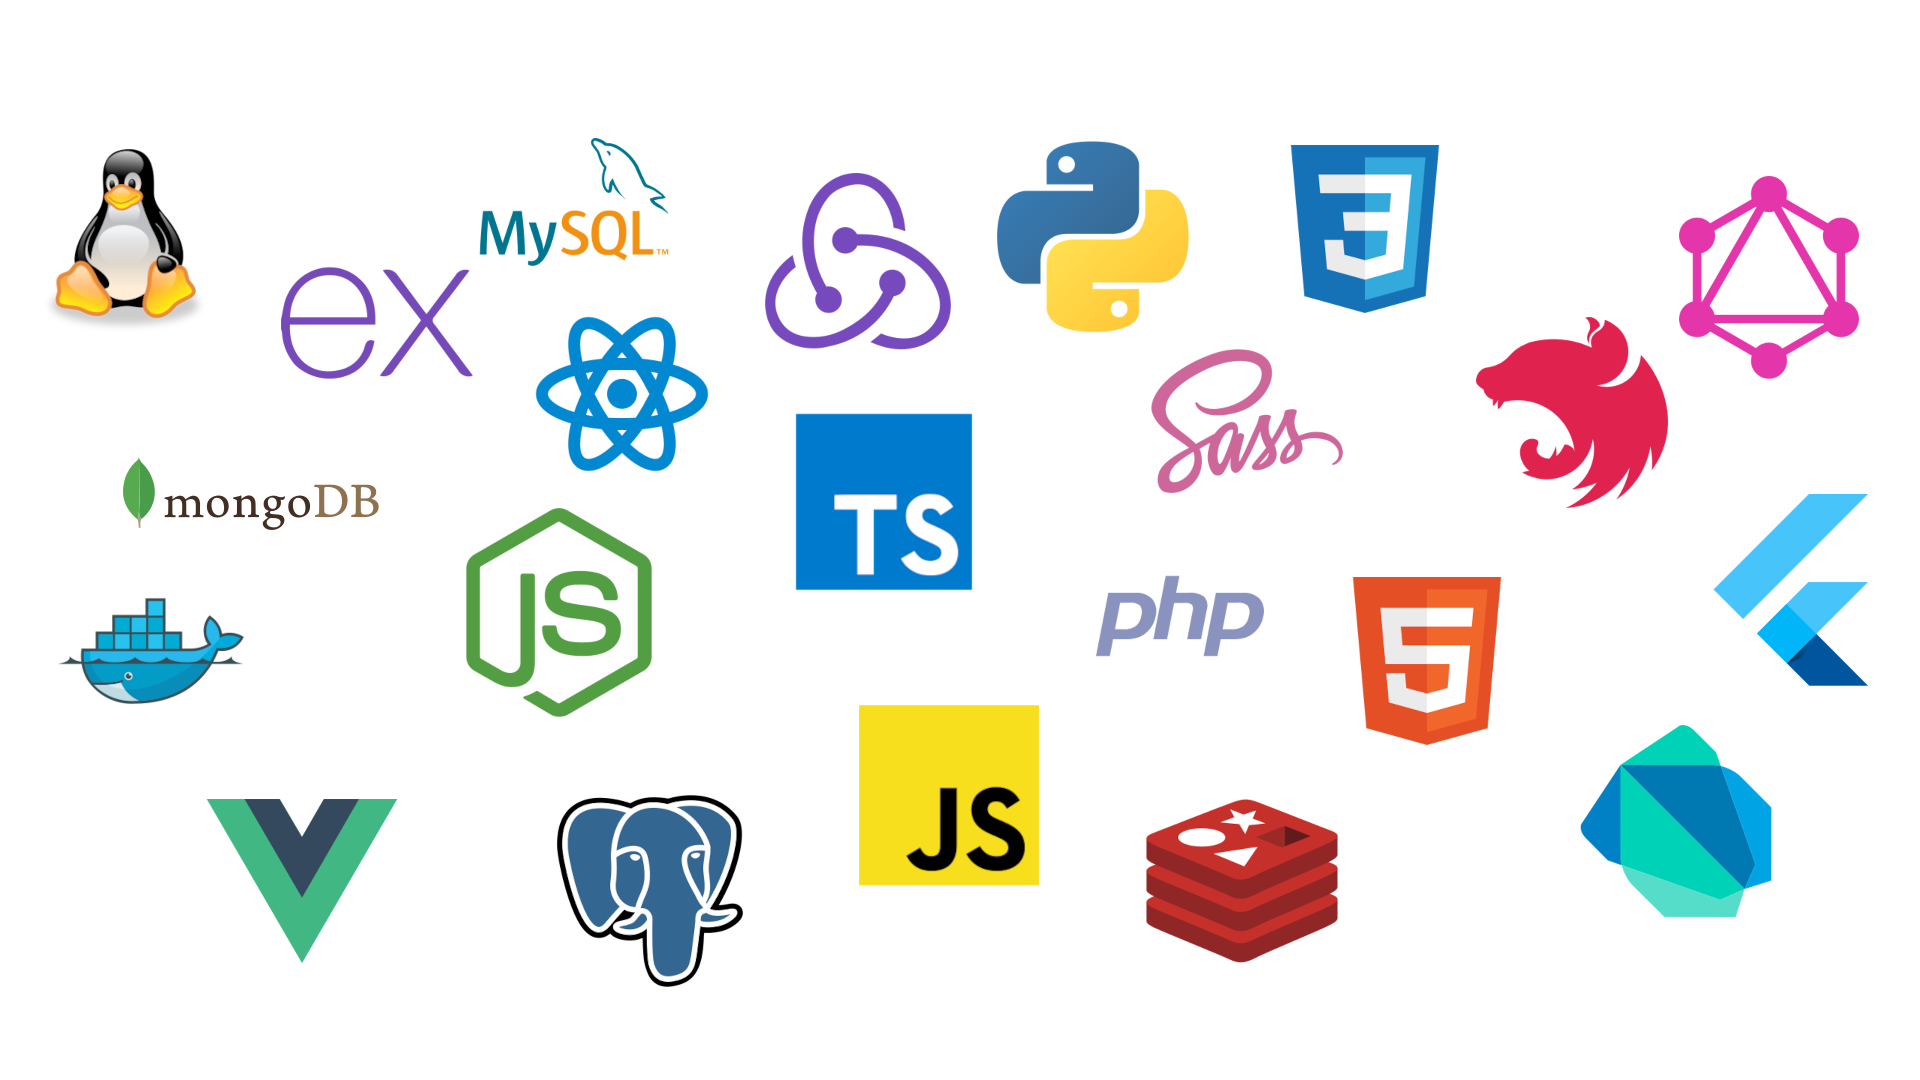
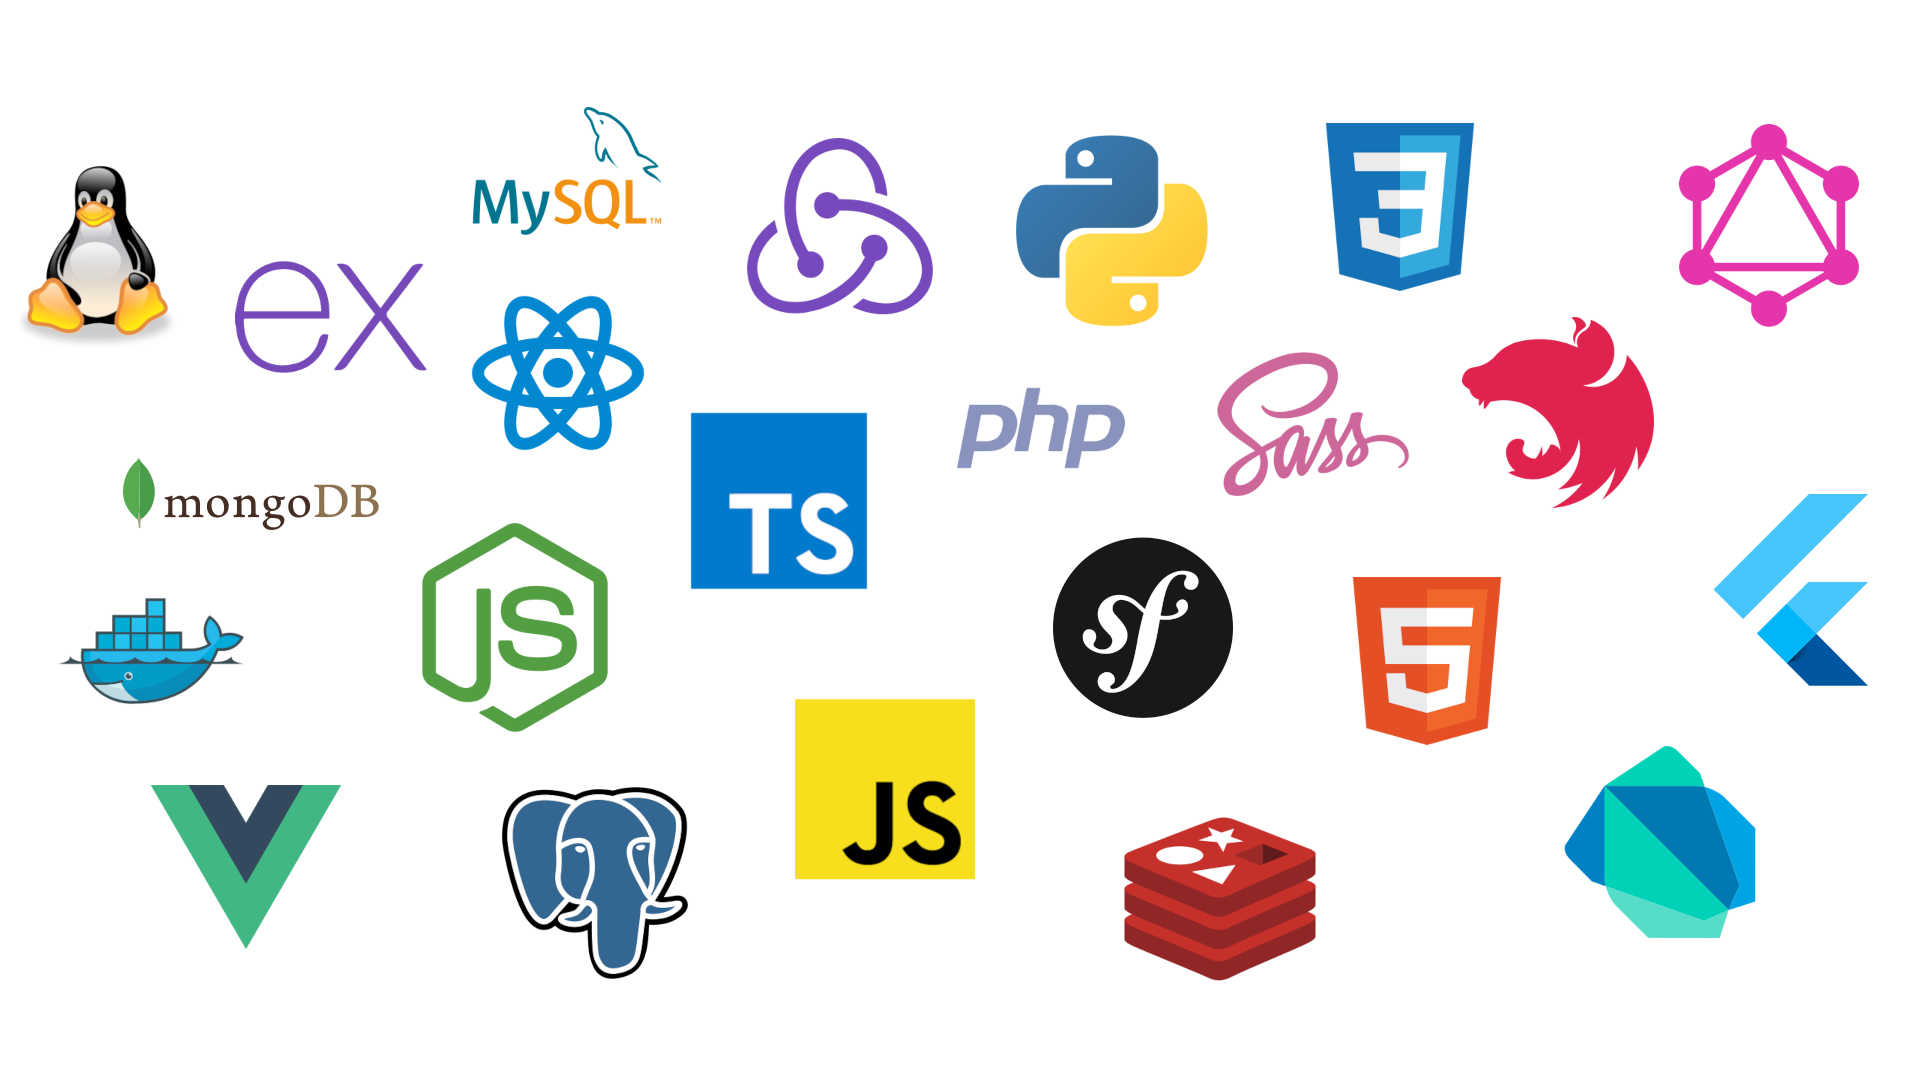
added fixtures to load technologies and projects

diff --git a/server/src/modules/fixtures/data/index.ts b/server/src/modules/fixtures/data/index.ts
@@ -1,0 +1,148 @@
+export const getTechnologies = (imagesPath: string) => [
+  { name: 'C#', icon_url: `${imagesPath}/csharp.svg` },
+  { name: 'CSS', icon_url: `${imagesPath}/css.svg` },
+  { name: 'Dart', icon_url: `${imagesPath}/dart.svg` },
+  { name: 'Docker', icon_url: `${imagesPath}/docker.svg` },
+  { name: 'Express', icon_url: `${imagesPath}/express.svg` },
+  { name: 'Flutter', icon_url: `${imagesPath}/flutter.svg` },
+  { name: 'GraphQL', icon_url: `${imagesPath}/graphql.svg` },
+  { name: 'HTML', icon_url: `${imagesPath}/html.svg` },
+  { name: 'JavaScript', icon_url: `${imagesPath}/javascript.svg` },
+  { name: 'MongoDB', icon_url: `${imagesPath}/mongodb.svg` },
+  { name: 'MySQL', icon_url: `${imagesPath}/mysql.svg` },
+  { name: 'NestJS', icon_url: `${imagesPath}/nestjs.svg` },
+  { name: 'NodeJS', icon_url: `${imagesPath}/nodejs.svg` },
+  { name: 'NPM', icon_url: `${imagesPath}/npm.svg` },
+  { name: 'PHP', icon_url: `${imagesPath}/php.svg` },
+  { name: 'PostgreSQL', icon_url: `${imagesPath}/postgresql.svg` },
+  { name: 'Python', icon_url: `${imagesPath}/python.svg` },
+  { name: 'React TypeScript', icon_url: `${imagesPath}/react_ts.svg` },
+  { name: 'React', icon_url: `${imagesPath}/react.svg` },
+  { name: 'Redis', icon_url: `${imagesPath}/redis.svg` },
+  { name: 'Redux', icon_url: `${imagesPath}/redux.svg` },
+  { name: 'Sass', icon_url: `${imagesPath}/sass.svg` },
+  { name: 'Symfony', icon_url: `${imagesPath}/symfony.svg` },
+  { name: 'Twig', icon_url: `${imagesPath}/twig.svg` },
+  { name: 'TypeScript', icon_url: `${imagesPath}/typescript.svg` },
+  { name: 'Vue', icon_url: `${imagesPath}/vue.svg` },
+  { name: 'Yarn', icon_url: `${imagesPath}/yarn.svg` },
+];
+
+export const getProjects = () => [
+  {
+    name: 'Brownskin Beauty',
+    description: `Site vitrine réalisé pour une cliente
+      créatrice de cosmétiques en tout genre.
+      Je me suis chargé du code, du design et du logo et de la mise en ligne.`,
+    url: 'https://brownskinbeauty.fr',
+    repository: 'https://github.com/ZayenJS/brownskinbeauty',
+    technologies: ['HTML', 'CSS', 'JavaScript'],
+    images: [],
+  },
+  {
+    name: 'Find Your Way',
+    description: `Petit jeu réalisé en javascript dans le cadre de
+      ma formation developpeur web fullstack javascript chez O'Clock.
+      J'y ai ajouté quelques fonctionnalités suplémentaires
+      comme par exemple : pièges, vies, niveaux
+      (mon meilleur score : niveau 46 😉).`,
+    url: 'https://zayenjs.github.io/find-your-way-game/',
+    repository: 'https://github.com/ZayenJS/find-your-way-game',
+    technologies: ['HTML', 'CSS', 'JavaScript'],
+    images: [],
+  },
+  {
+    name: "sensi'me",
+    description: 'Blog crée pour une cliente sans CMS.',
+    url: '',
+    repository: 'https://github.com/ZayenJS/sensime',
+    technologies: [
+      'React',
+      'TypeScript',
+      'Redux',
+      'Sass',
+      'NodeJS',
+      'Express',
+      'PostgreSQL',
+    ],
+    images: [],
+  },
+  {
+    name: 'The Tavern',
+    description: `Site réalisé dans le cadre du projet de fin
+      de formation de la formation developpeur web
+      fullstack JS de l'école O'Clock.
+      Il s'agit du premier réseau social dédié au jeu de rôle.
+      Il est composé de deux parties principales :
+      un fil d'actualité et une salle de jeu avec chat et partage d'écran.`,
+    repository: 'https://github.com/the-tavern-social-network/the-tavern',
+    technologies: ['React', 'Redux', 'Sass', 'NodeJS', 'Express', 'PostgreSQL'],
+    images: [],
+  },
+  {
+    name: 'covid tracker',
+    description: `Application permettant de suivre l'évolution
+      du COVID-19 au fil du temps par pays ou globalement.
+      L'application permet aussi d'obtenir les dernières infos
+      du covid par pays.`,
+    url: '',
+    repository: 'https://github.com/ZayenJS/covid-tracker',
+    technologies: ['React', 'TypeScript', 'Redux', 'Sass'],
+    images: [],
+  },
+  {
+    name: 'cli-rjs',
+    description: `Mon premier package NPM ! Il sert à améliorer la productivité dans un projet react
+      et permet d'arrêter les copier-coller en tout genre lors de la création de composants.
+      Il est capable de créer un nouveau projet avec des options afin d'initialiser le projet avec typescript,
+      redux, ou bien react-router directement à la création du projet.
+      Il permet aussi de créer des composants directement en ligne de commande.`,
+    url: 'https://www.npmjs.com/package/cli-rjs',
+    repository: 'https://github.com/rjs-cli/rjs-cli',
+    technologies: ['NodeJS', 'TypeScript'],
+    images: [],
+  },
+  {
+    name: 'ristorante',
+    description:
+      "Site réalisé en tant que formateur pour enseigner la réalisation d'un site web.",
+
+    url: 'https://ristorante.david-nogueira.dev',
+    repository: 'https://github.com/ZayenJS/dw5-ristorante',
+    technologies: [
+      'HTML',
+      'Sass',
+      'JavaScript',
+      'TypeScript',
+      'PHP',
+      'Twig',
+      'MySQL',
+    ],
+    images: [],
+  },
+  {
+    name: 'fairly made',
+    description:
+      "Site réalisé en tant que formateur pour enseigner la réalisation d'un site web.",
+    url: 'https://fairly-made.david-nogueira.dev',
+    repository: 'https://github.com/ZayenJS/dw5-ristorante',
+    technologies: ['HTML', 'Sass', 'JavaScript', 'PHP', 'Twig', 'MySQL'],
+    images: [],
+  },
+  {
+    name: 'portfolio',
+    description: 'Le portfolio sur lequel vous vous trouvez actuellement 😁',
+    url: 'https://david-nogueira.dev',
+    repository: 'https://github.com/ZayenJS/portfolio',
+    technologies: [
+      'React',
+      'TypeScript',
+      'Redux',
+      'Sass',
+      'NestJS',
+      'GraphQL',
+      'PostgreSQL',
+    ],
+    images: [],
+  },
+];

diff --git a/server/src/modules/fixtures/fixtures.service.ts b/server/src/modules/fixtures/fixtures.service.ts
@@ -1,0 +1,91 @@
+import * as fsp from 'fs/promises';
+import { Injectable } from '@nestjs/common';
+import slugify from 'slugify';
+
+import { Project } from 'src/models/Project';
+import { Technology } from 'src/models/Technology';
+import { getTechnologies, getProjects } from './data';
+
+@Injectable()
+export class FixturesService {
+  public async createTechnologies(imagesPath: string) {
+    console.log('Loading Technologies...');
+
+    const technologies = getTechnologies(imagesPath);
+
+    try {
+      for (const technology of technologies) {
+        const createdTechnology = Technology.create(technology);
+        createdTechnology.save();
+
+        console.log(`Created technology: ${createdTechnology.name}`);
+      }
+
+      console.log('Finished loading Technologies.');
+      return technologies;
+    } catch (e) {
+      console.error(e);
+      return null;
+    }
+  }
+
+  public async createProjects(imagesPath: string) {
+    try {
+      const projects = getProjects();
+      const createdProjects = [];
+
+      for (const project of projects) {
+        console.log(`Creating project: ${project.name}`);
+
+        const projectDir = `${process.cwd()}/public/images/projects/${slugify(
+          project.name,
+          {
+            lower: true,
+          },
+        )}`;
+
+        try {
+          await fsp.opendir(projectDir);
+        } catch (e) {
+          await fsp.mkdir(projectDir, { recursive: true });
+        }
+
+        const technologies: Technology[] = [];
+
+        for (const technology of project.technologies) {
+          const technologyModel = await Technology.findOne({
+            where: { name: technology },
+          });
+
+          if (technologyModel) {
+            technologies.push(technologyModel);
+          }
+        }
+
+        const newProject = Project.create({
+          name: project.name,
+          description: project.description,
+          url: project.url,
+          repository: project.repository,
+          technologies,
+        });
+
+        const createdProject = await newProject.save();
+
+        // add images to the project
+        const projectImagePath = `${imagesPath}/${slugify(project.name, {
+          lower: true,
+        })}`;
+
+        console.log(`Created project: ${createdProject.name}`);
+        createdProjects.push(newProject);
+      }
+
+      console.log('Finished loading Projects.');
+      return createdProjects;
+    } catch (e) {
+      console.error(e);
+      return null;
+    }
+  }
+}

diff --git a/server/src/modules/app/app.module.ts b/server/src/modules/app/app.module.ts
@@ -16,9 +16,12 @@ import { Context } from 'src/classes/Context';
 import { AppResolver } from './app.resolver';
 import { UserModule } from '../user/user.module';
 import { AuthModule } from '../auth/auth.module';
+import { ServeStaticModule } from '@nestjs/serve-static';
+import { FixturesModule } from '../fixtures/fixtures.module';
 
 @Module({
   imports: [
+    FixturesModule,
     ProjectsModule,
     TechnologiesModule,
     UserModule,
@@ -39,6 +42,9 @@ import { AuthModule } from '../auth/auth.module';
         origin: ['http://localhost:3000', 'https://studio.apollographql.com'],
       },
       context: ({ req, res }: Context) => ({ req, res }),
+    }),
+    ServeStaticModule.forRoot({
+      rootPath: join(process.cwd(), 'public'),
     }),
   ],
   controllers: [AppController],

diff --git a/server/src/modules/fixtures/fixtures.controller.ts b/server/src/modules/fixtures/fixtures.controller.ts
@@ -1,0 +1,21 @@
+import { Controller, Post, Req } from '@nestjs/common';
+import { FixturesService } from './fixtures.service';
+
+@Controller('fixtures')
+export class FixturesController {
+  constructor(private fixturesService: FixturesService) {}
+
+  @Post('/technologies')
+  public async loadTechnologies(@Req() req) {
+    const imagesPath = `${req.protocol}://${req.get(
+      'host',
+    )}/images/technologies`;
+    return this.fixturesService.createTechnologies(imagesPath);
+  }
+
+  @Post('/projects')
+  public async loadProjects(@Req() req) {
+    const imagesPath = `${req.protocol}://${req.get('host')}/images/projects`;
+    return this.fixturesService.createProjects(imagesPath);
+  }
+}

diff --git a/server/public/index.html b/server/public/index.html
@@ -1,0 +1,20 @@
+<!DOCTYPE html>
+<html lang="en">
+  <head>
+    <meta charset="UTF-8" />
+    <meta http-equiv="X-UA-Compatible" content="IE=edge" />
+    <meta name="viewport" content="width=device-width, initial-scale=1.0" />
+    <title>Api</title>
+    <style>
+      * {
+        margin: 0;
+        padding: 0;
+        box-sizing: border-box;
+      }
+      body {
+        background-color: #222;
+      }
+    </style>
+  </head>
+  <body></body>
+</html>

diff --git a/client/src/components/NormalMode/Projects/Projects.tsx b/client/src/components/NormalMode/Projects/Projects.tsx
@@ -36,7 +36,8 @@ const Projects: FC<ProjectsProps> = ({ projects }) => {
     new Technology(8, Technos.NODE_JS),
     new Technology(9, Technos.NEST_JS),
     new Technology(10, Technos.PHP),
-    new Technology(11, Technos.GRAPHQL),
+    new Technology(11, Technos.SYMFONY),
+    new Technology(12, Technos.GRAPHQL),
   ];
 
   const setFilter = (tech: Technos) => {

diff --git a/server/src/modules/fixtures/fixtures.module.ts b/server/src/modules/fixtures/fixtures.module.ts
@@ -1,0 +1,9 @@
+import { Module } from '@nestjs/common';
+import { FixturesService } from './fixtures.service';
+import { FixturesController } from './fixtures.controller';
+
+@Module({
+  providers: [FixturesService],
+  controllers: [FixturesController]
+})
+export class FixturesModule {}

diff --git a/client/src/models/index.ts b/client/src/models/index.ts
@@ -48,6 +48,7 @@ export enum Technos {
   REDUX = 'Redux',
   SASS = 'SASS',
   NODE_JS = 'NodeJS',
+  MONGO_DB = 'MongoDB',
   POSTGRESQL = 'Postgresql',
   GRAPHQL = 'Graphql',
   NEST_JS = 'NestJS',
